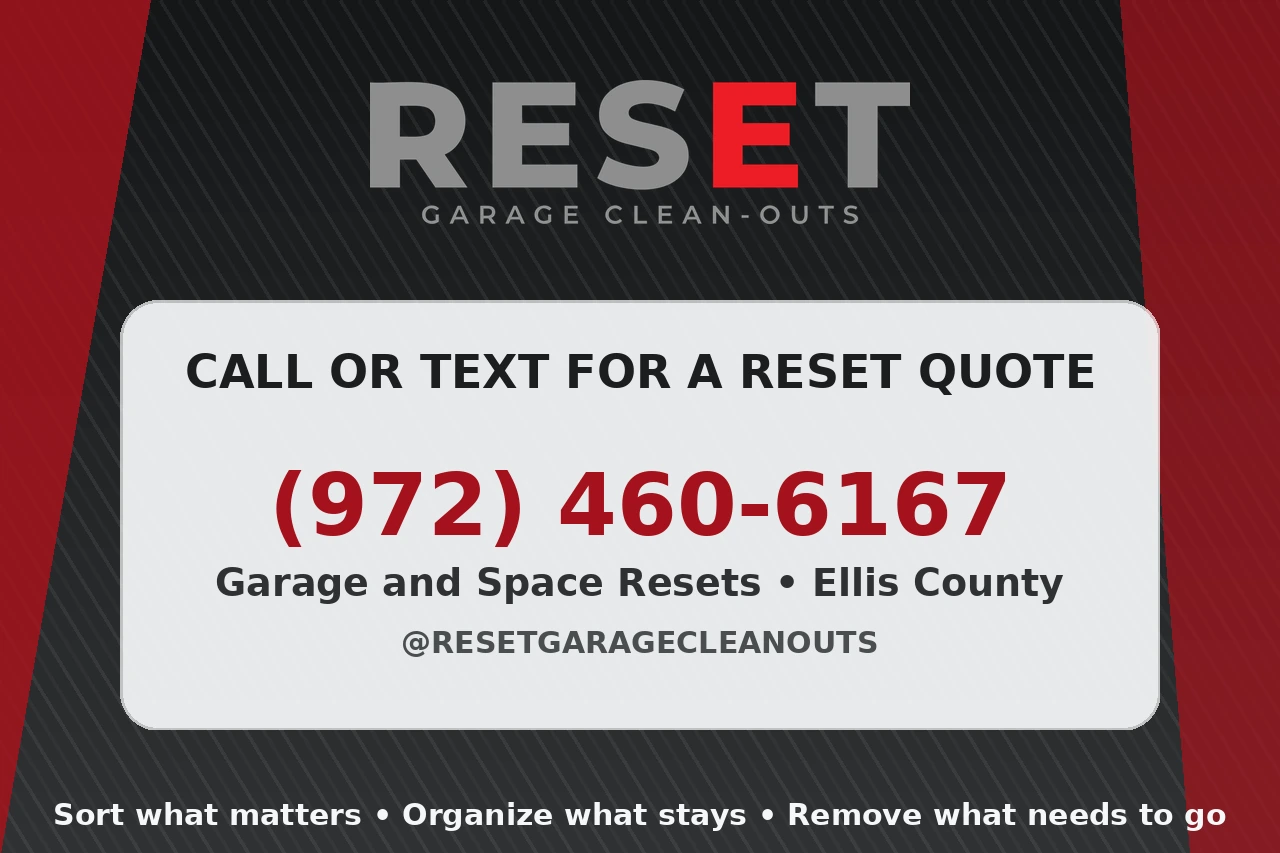
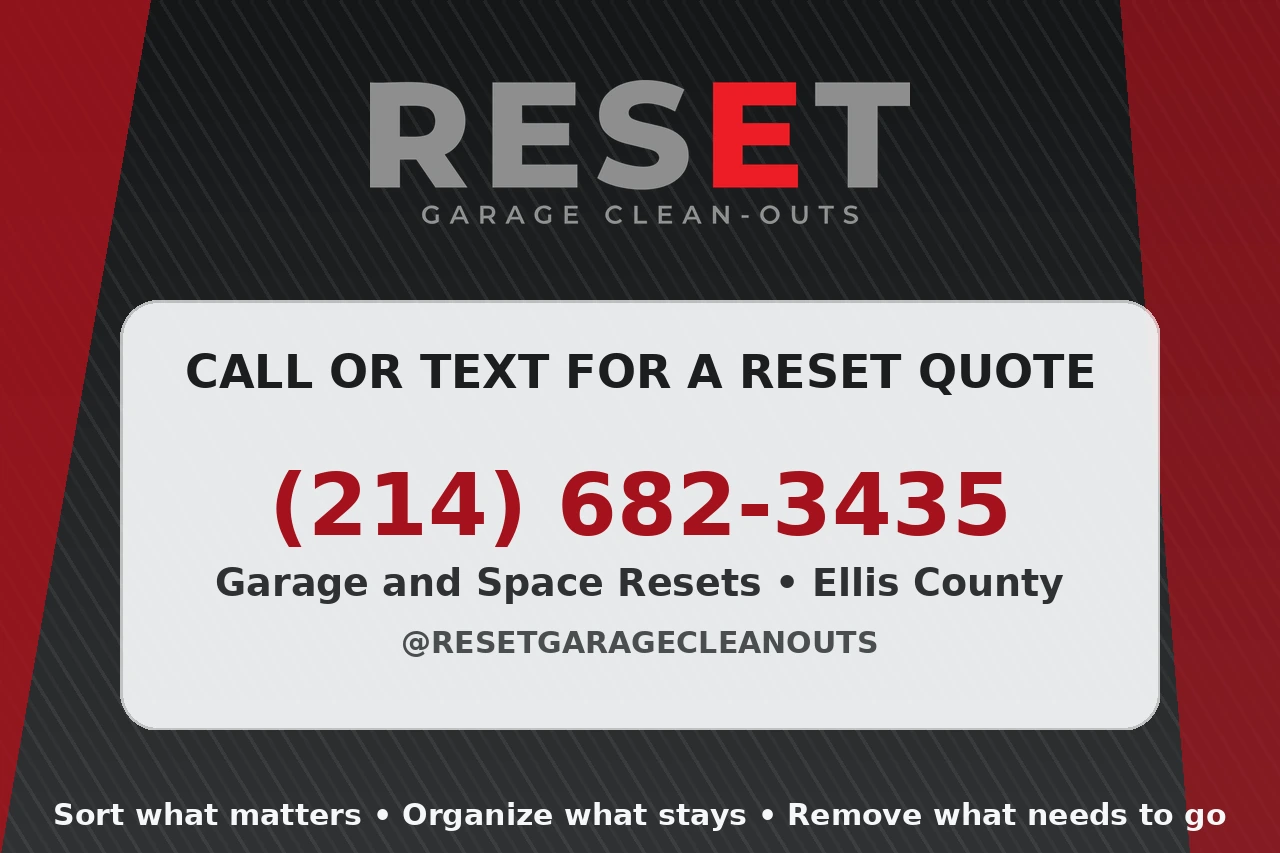
Update Reset website phone number

Changed region(s): [[0.4375, 0.5487, 0.7812, 0.6401], [0.25, 0.5487, 0.375, 0.6401]]

diff --git a/index.html b/index.html
@@ -62,9 +62,9 @@
               <strong>Fast quote form</strong>
               <span>Start here, then reply to our text with photos or a quick video.</span>
             </a>
-            <a class="proof-card" href="sms:+197****6167">
+            <a class="proof-card" href="sms:+12146823435">
               <strong>Call or text</strong>
-              <span>Reach RESET at (972) 460-6167.</span>
+              <span>Reach RESET at (214) 682-3435.</span>
             </a>
           </div>
 
@@ -236,7 +236,7 @@
             Serving Waxahachie, Midlothian, Red Oak, Ovilla, Ennis, and nearby Ellis County communities.
           </p>
           <p class="quote-phone">
-            Text or call: <a href="sms:+19724606167">(972) 460-6167</a>
+            Text or call: <a href="sms:+12146823435">(214) 682-3435</a>
           </p>
           <div class="quote-socials" aria-label="Social links">
             <a href="https://www.google.com/search?q=RESET+Garage+Cleanouts+reviews" target="_blank" rel="noopener">Google reviews</a>
@@ -299,7 +299,7 @@
     <footer>
       <div>RESET</div>
       <div>Garage & space resets in Ellis County, Texas</div>
-      <a class="footer-phone" href="sms:+19724606167">Text or call (972) 460-6167</a>
+      <a class="footer-phone" href="sms:+12146823435">Text or call (214) 682-3435</a>
       <a href="https://www.instagram.com/resetgaragecleanouts/" target="_blank" rel="noopener">Instagram</a>
       <a href="https://www.facebook.com/resetgaragecleanouts" target="_blank" rel="noopener">Facebook</a>
     </footer>

diff --git a/scripts/make-reset-card.py b/scripts/make-reset-card.py
@@ -55,7 +55,7 @@ img.alpha_composite(panel, (120, 300))
 
 d = ImageDraw.Draw(img)
 d.text((W // 2, 345), 'CALL OR TEXT FOR A RESET QUOTE', font=F_mid, anchor='ma', fill='#1b1d1f')
-d.text((W // 2, 455), '(972) 460-6167', font=F_phone, anchor='ma', fill='#a5121d')
+d.text((W // 2, 455), '(214) 682-3435', font=F_phone, anchor='ma', fill='#a5121d')
 d.text((W // 2, 560), 'Garage and Space Resets • Ellis County', font=F_small, anchor='ma', fill='#2f3234')
 d.text((W // 2, 625), '@RESETGARAGECLEANOUTS', font=F_tiny, anchor='ma', fill='#4a4e50')
 d.text((W // 2, H - 56), 'Sort what matters • Organize what stays • Remove what needs to go', font=F_tiny, anchor='ma', fill=(245, 247, 248, 230))